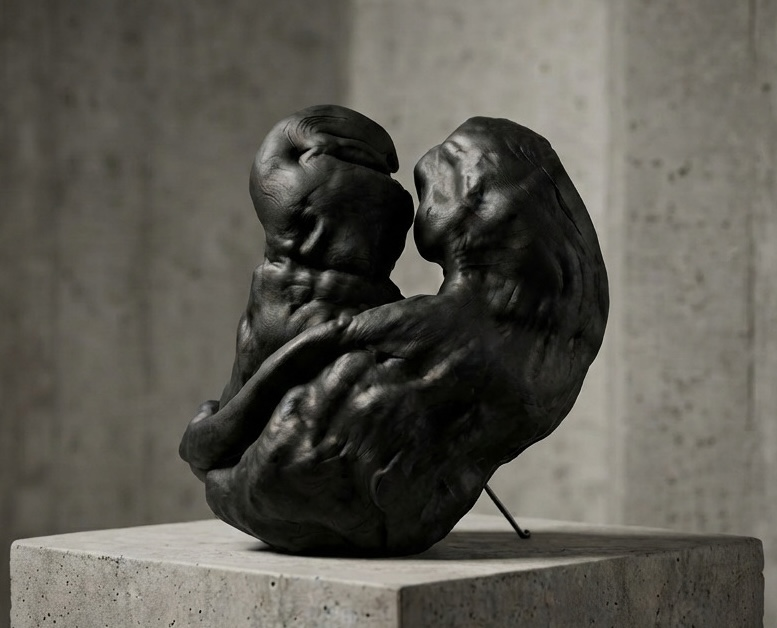
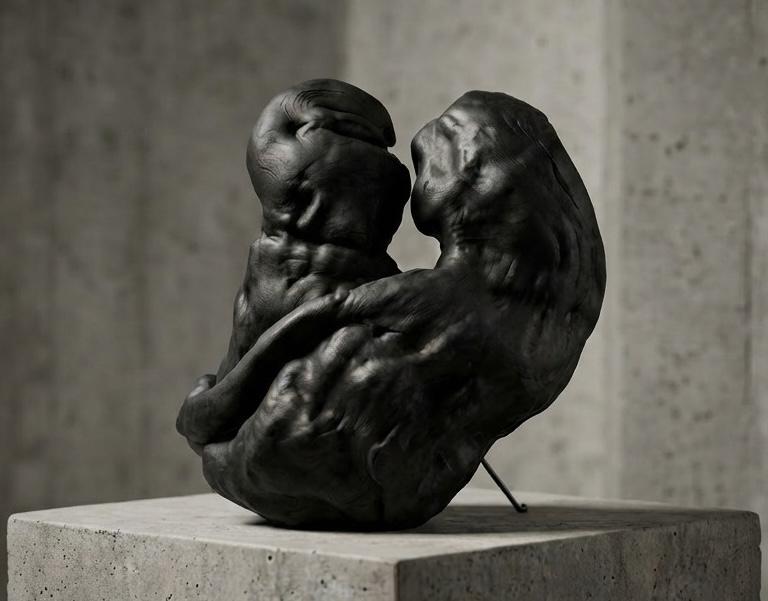
Curators: works grid 4:3 format with new sequence, works catalog status to ПРОДАНА, fix home title duplication

diff --git a/en/curators/index.html b/en/curators/index.html
@@ -69,7 +69,7 @@
 }
   </script>
   <link rel="icon" href="../../images/favicon.svg" type="image/svg+xml">
-  <link rel="stylesheet" href="../../css/style.css?v=500">
+  <link rel="stylesheet" href="../../css/style.css?v=600">
 </head>
 <body>
     <header class="site-header">
@@ -124,38 +124,53 @@
       </div>
     </div>
 
-        <!-- WORKS (5 pieces leading to English pages) -->
+        <!-- WORKS: 1.Face to Face, 2.The Wolf, 3.Confession, 4.Resentment, 5.Foundation (4:3) -->
     <section class="container" style="margin-bottom: 80px;">
       <h2 class="section-title" style="margin-bottom: 30px;">WORKS</h2>
       <div class="curator-works-5-grid">
         <div>
-          <a href="../../en/works/foundation/">
-            <picture><source srcset="../../images/curators/curator-work-01.webp" type="image/webp"><img src="../../images/curators/curator-work-01.jpg" alt="Foundation" loading="lazy" decoding="async"></picture>
-            <p class="caption">Foundation, 2025</p>
-          </a>
-        </div>
-        <div>
           <a href="../../en/works/face-to-face/">
-            <picture><source srcset="../../images/curators/curator-work-02.webp" type="image/webp"><img src="../../images/curators/curator-work-02.jpg" alt="Face to Face" loading="lazy" decoding="async"></picture>
+            <picture>
+              <source srcset="../../../images/works/work-exhibit-02.webp" type="image/webp">
+              <img src="../../../images/works/work-exhibit-02.jpg" alt="Face to Face" loading="lazy" decoding="async">
+            </picture>
             <p class="caption">Face to Face, 2026</p>
           </a>
         </div>
         <div>
+          <a href="../../en/works/the-wolf/">
+            <picture>
+              <source srcset="../../../images/works/work-exhibit-05.webp" type="image/webp">
+              <img src="../../../images/works/work-exhibit-05.jpg" alt="The Wolf" loading="lazy" decoding="async">
+            </picture>
+            <p class="caption">The Wolf, 2026</p>
+          </a>
+        </div>
+        <div>
           <a href="../../en/works/confession/">
-            <picture><source srcset="../../images/curators/curator-work-03.webp" type="image/webp"><img src="../../images/curators/curator-work-03.jpg" alt="Confession" loading="lazy" decoding="async"></picture>
+            <picture>
+              <source srcset="../../../images/works/work-exhibit-03.webp" type="image/webp">
+              <img src="../../../images/works/work-exhibit-03.jpg" alt="Confession" loading="lazy" decoding="async">
+            </picture>
             <p class="caption">Confession, 2026</p>
           </a>
         </div>
         <div>
           <a href="../../en/works/resentment/">
-            <picture><source srcset="../../images/curators/curator-work-04.webp" type="image/webp"><img src="../../images/curators/curator-work-04.jpg" alt="Resentment" loading="lazy" decoding="async"></picture>
+            <picture>
+              <source srcset="../../../images/works/work-exhibit-04.webp" type="image/webp">
+              <img src="../../../images/works/work-exhibit-04.jpg" alt="Resentment" loading="lazy" decoding="async">
+            </picture>
             <p class="caption">Resentment, 2026</p>
           </a>
         </div>
         <div>
-          <a href="../../en/works/the-wolf/">
-            <picture><source srcset="../../images/works/work-exhibit-05.webp" type="image/webp"><img src="../../images/works/work-exhibit-05.jpg" alt="The Wolf" loading="lazy" decoding="async" width="1000" height="1000"></picture>
-            <p class="caption">The Wolf, 2026</p>
+          <a href="../../en/works/foundation/">
+            <picture>
+              <source srcset="../../../images/works/work-exhibit-01.webp" type="image/webp">
+              <img src="../../../images/works/work-exhibit-01.jpg" alt="Foundation" loading="lazy" decoding="async">
+            </picture>
+            <p class="caption">Foundation, 2025</p>
           </a>
         </div>
       </div>

diff --git a/curators/index.html b/curators/index.html
@@ -69,7 +69,7 @@
 }
   </script>
   <link rel="icon" href="../images/favicon.svg" type="image/svg+xml">
-  <link rel="stylesheet" href="../css/style.css?v=500">
+  <link rel="stylesheet" href="../css/style.css?v=600">
 </head>
 <body>
     <header class="site-header">
@@ -124,38 +124,53 @@
       </div>
     </div>
 
-        <!-- РАБОТЫ (5 работ) -->
+        <!-- РАБОТЫ: 1.Перед лицом, 2.Волк, 3.Исповедь, 4.Обида, 5.Основание (4:3) -->
     <section class="container" style="margin-bottom: 80px;">
       <h2 class="section-title" style="margin-bottom: 30px;">РАБОТЫ</h2>
       <div class="curator-works-5-grid">
         <div>
-          <a href="../works/osnovanie/">
-            <picture><source srcset="../images/curators/curator-work-01.webp" type="image/webp"><img src="../images/curators/curator-work-01.jpg" alt="Основание" loading="lazy" decoding="async"></picture>
-            <p class="caption">Основание, 2025</p>
-          </a>
-        </div>
-        <div>
           <a href="../works/pered-licom/">
-            <picture><source srcset="../images/curators/curator-work-02.webp" type="image/webp"><img src="../images/curators/curator-work-02.jpg" alt="Перед лицом" loading="lazy" decoding="async"></picture>
+            <picture>
+              <source srcset="../images/works/work-exhibit-02.webp" type="image/webp">
+              <img src="../images/works/work-exhibit-02.jpg" alt="Перед лицом" loading="lazy" decoding="async">
+            </picture>
             <p class="caption">Перед лицом, 2026</p>
           </a>
         </div>
         <div>
+          <a href="../works/volk/">
+            <picture>
+              <source srcset="../images/works/work-exhibit-05.webp" type="image/webp">
+              <img src="../images/works/work-exhibit-05.jpg" alt="Волк" loading="lazy" decoding="async">
+            </picture>
+            <p class="caption">Волк, 2026</p>
+          </a>
+        </div>
+        <div>
           <a href="../works/ispoved/">
-            <picture><source srcset="../images/curators/curator-work-03.webp" type="image/webp"><img src="../images/curators/curator-work-03.jpg" alt="Исповедь" loading="lazy" decoding="async"></picture>
+            <picture>
+              <source srcset="../images/works/work-exhibit-03.webp" type="image/webp">
+              <img src="../images/works/work-exhibit-03.jpg" alt="Исповедь" loading="lazy" decoding="async">
+            </picture>
             <p class="caption">Исповедь, 2026</p>
           </a>
         </div>
         <div>
           <a href="../works/obida/">
-            <picture><source srcset="../images/curators/curator-work-04.webp" type="image/webp"><img src="../images/curators/curator-work-04.jpg" alt="Обида" loading="lazy" decoding="async"></picture>
+            <picture>
+              <source srcset="../images/works/work-exhibit-04.webp" type="image/webp">
+              <img src="../images/works/work-exhibit-04.jpg" alt="Обида" loading="lazy" decoding="async">
+            </picture>
             <p class="caption">Обида, 2026</p>
           </a>
         </div>
         <div>
-          <a href="../works/volk/">
-            <picture><source srcset="../images/works/work-exhibit-05.webp" type="image/webp"><img src="../images/works/work-exhibit-05.jpg" alt="Волк" loading="lazy" decoding="async" width="1000" height="1000"></picture>
-            <p class="caption">Волк, 2026</p>
+          <a href="../works/osnovanie/">
+            <picture>
+              <source srcset="../images/works/work-exhibit-01.webp" type="image/webp">
+              <img src="../images/works/work-exhibit-01.jpg" alt="Основание" loading="lazy" decoding="async">
+            </picture>
+            <p class="caption">Основание, 2025</p>
           </a>
         </div>
       </div>

diff --git a/works/index.html b/works/index.html
@@ -50,7 +50,7 @@
 }
   </script>
   <link rel="icon" href="../images/favicon.svg" type="image/svg+xml">
-  <link rel="stylesheet" href="../css/style.css?v=500">
+  <link rel="stylesheet" href="../css/style.css?v=600">
 </head>
 <body>
     <header class="site-header">
@@ -118,7 +118,7 @@
           </div>
           <div style="margin-top: 12px; font-size: 13px; line-height: 1.6;">
             <div><span style="color: var(--color-muted);">стоимость:</span> <strong style="color: var(--color-primary); font-weight: 500;">780 BYN</strong></div>
-            <div style="margin-top: 2px;"><strong style="color: var(--color-primary); font-weight: 500; letter-spacing: 0.05em;">ПРОДАН</strong></div>
+            <div style="margin-top: 2px;"><strong style="color: var(--color-primary); font-weight: 500; letter-spacing: 0.05em;">ПРОДАНА</strong></div>
           </div>
         </div>
 
@@ -131,7 +131,7 @@
           </div>
           <div style="margin-top: 12px; font-size: 13px; line-height: 1.6;">
             <div><span style="color: var(--color-muted);">стоимость:</span> <strong style="color: var(--color-primary); font-weight: 500;">1700 BYN</strong></div>
-            <div style="margin-top: 2px;"><strong style="color: var(--color-primary); font-weight: 500; letter-spacing: 0.05em;">ПРОДАН</strong></div>
+            <div style="margin-top: 2px;"><strong style="color: var(--color-primary); font-weight: 500; letter-spacing: 0.05em;">ПРОДАНА</strong></div>
           </div>
         </div>
 
@@ -159,7 +159,7 @@
           </div>
           <div style="margin-top: 12px; font-size: 13px; line-height: 1.6;">
             <div><span style="color: var(--color-muted);">стоимость:</span> <strong style="color: var(--color-primary); font-weight: 500;">430 BYN</strong></div>
-            <div style="margin-top: 2px;"><strong style="color: var(--color-primary); font-weight: 500; letter-spacing: 0.05em;">ПРОДАН</strong></div>
+            <div style="margin-top: 2px;"><strong style="color: var(--color-primary); font-weight: 500; letter-spacing: 0.05em;">ПРОДАНА</strong></div>
           </div>
         </div>
 
@@ -172,7 +172,7 @@
           </div>
           <div style="margin-top: 12px; font-size: 13px; line-height: 1.6;">
             <div><span style="color: var(--color-muted);">стоимость:</span> <strong style="color: var(--color-primary); font-weight: 500;">1300 BYN</strong></div>
-            <div style="margin-top: 2px;"><strong style="color: var(--color-primary); font-weight: 500; letter-spacing: 0.05em;">ПРОДАН</strong></div>
+            <div style="margin-top: 2px;"><strong style="color: var(--color-primary); font-weight: 500; letter-spacing: 0.05em;">ПРОДАНА</strong></div>
           </div>
         </div>
 
@@ -185,7 +185,7 @@
           </div>
           <div style="margin-top: 12px; font-size: 13px; line-height: 1.6;">
             <div><span style="color: var(--color-muted);">стоимость:</span> <strong style="color: var(--color-primary); font-weight: 500;">620 BYN</strong></div>
-            <div style="margin-top: 2px;"><strong style="color: var(--color-primary); font-weight: 500; letter-spacing: 0.05em;">ПРОДАН</strong></div>
+            <div style="margin-top: 2px;"><strong style="color: var(--color-primary); font-weight: 500; letter-spacing: 0.05em;">ПРОДАНА</strong></div>
           </div>
         </div>
       </div>

diff --git a/index.html b/index.html
@@ -49,7 +49,7 @@
 }
   </script>
   <link rel="icon" href="./images/favicon.svg" type="image/svg+xml">
-  <link rel="stylesheet" href="./css/style.css?v=500">
+  <link rel="stylesheet" href="./css/style.css?v=600">
 </head>
 <body>
     <header class="site-header">
@@ -124,7 +124,7 @@
       <div class="grid-2-col" style="margin-bottom: 30px;">
         <div>
           <p class="event-date">Октябрь 2026</p>
-          <h3 class="event-name" style="margin-bottom: 8px;">9-я выставка 9-я выставка «Трын*Трава. Современный русский стиль»</h3>
+          <h3 class="event-name" style="margin-bottom: 8px;">9-я выставка «Трын*Трава. Современный русский стиль»</h3>
           <p class="lead-text">Три работы вошли в основную экспозицию выставки</p>
         </div>
         <div>

diff --git a/css/style.css b/css/style.css
@@ -1518,20 +1518,27 @@ img, video {
   line-height: 1.7;
 }
 
-/* 5 работ у кураторов на десктопе */
+/* 5 работ у кураторов: единый формат 4:3 */
 .curator-works-5-grid {
   display: grid;
   grid-template-columns: repeat(5, 1fr);
   gap: 20px;
 }
+.curator-works-5-grid picture,
 .curator-works-5-grid img {
   width: 100%;
-  aspect-ratio: 3 / 4;
+  aspect-ratio: 4 / 3 !important;
   object-fit: cover;
+  display: block;
+  transition: transform 0.4s ease;
+}
+.curator-works-5-grid a:hover img {
+  transform: scale(1.02);
 }
 @media (max-width: 900px) {
   .curator-works-5-grid {
     grid-template-columns: repeat(2, 1fr) !important;
+    gap: 18px 16px !important;
   }
 }
 @media (max-width: 600px) {

diff --git a/privacy/index.html b/privacy/index.html
@@ -24,7 +24,7 @@
   <meta name="twitter:description" content="Политика в отношении обработки персональных данных и файлов cookie ремесленника Атроша В. В. (УНП КА0278799).">
   <meta name="twitter:image" content="https://bycraft.by/images/hero/hero-valentin.jpg">
   <link rel="icon" href="../images/favicon.svg" type="image/svg+xml">
-  <link rel="stylesheet" href="../css/style.css?v=500">
+  <link rel="stylesheet" href="../css/style.css?v=600">
 </head>
 <body>
   <header class="site-header">

diff --git a/en/privacy/index.html b/en/privacy/index.html
@@ -24,7 +24,7 @@
   <meta name="twitter:description" content="Personal data processing and cookie policy for BYCRAFT by Valentin Atrosh.">
   <meta name="twitter:image" content="https://bycraft.by/images/hero/hero-valentin.jpg">
   <link rel="icon" href="../../images/favicon.svg" type="image/svg+xml">
-  <link rel="stylesheet" href="../../css/style.css?v=500">
+  <link rel="stylesheet" href="../../css/style.css?v=600">
 </head>
 <body>
   <header class="site-header">

diff --git a/en/works/work-252/index.html b/en/works/work-252/index.html
@@ -19,7 +19,7 @@
   <meta property="og:image:height" content="630">
   <meta name="twitter:card" content="summary_large_image">
   <link rel="icon" href="../../../images/favicon.svg" type="image/svg+xml">
-  <link rel="stylesheet" href="../../../css/style.css?v=500">
+  <link rel="stylesheet" href="../../../css/style.css?v=600">
 </head>
 <body>
   <header class="site-header">

diff --git a/works/work-252/index.html b/works/work-252/index.html
@@ -19,7 +19,7 @@
   <meta property="og:image:height" content="630">
   <meta name="twitter:card" content="summary_large_image">
   <link rel="icon" href="../../images/favicon.svg" type="image/svg+xml">
-  <link rel="stylesheet" href="../../css/style.css?v=500">
+  <link rel="stylesheet" href="../../css/style.css?v=600">
 </head>
 <body>
   <header class="site-header">

diff --git a/works/exhibition-monolith/index.html b/works/exhibition-monolith/index.html
@@ -10,7 +10,7 @@
   <meta property="og:type" content="website">
   <meta property="og:url" content="https://bycraft.by">
   <link rel="icon" href="../../images/favicon.svg" type="image/svg+xml">
-  <link rel="stylesheet" href="../../css/style.css?v=500">
+  <link rel="stylesheet" href="../../css/style.css?v=600">
 </head>
 <body>
   <header class="site-header">

diff --git a/404.html b/404.html
@@ -10,7 +10,7 @@
   <meta property="og:type" content="website">
   <meta property="og:url" content="https://bycraft.by">
   <link rel="icon" href="./images/favicon.svg" type="image/svg+xml">
-  <link rel="stylesheet" href="./css/style.css?v=500">
+  <link rel="stylesheet" href="./css/style.css?v=600">
 </head>
 <body>
   <header class="site-header">

diff --git a/en/works/confession/index.html b/en/works/confession/index.html
@@ -75,7 +75,7 @@
 }
   </script>
   <link rel="icon" href="../../../images/favicon.svg" type="image/svg+xml">
-  <link rel="stylesheet" href="../../../css/style.css?v=500">
+  <link rel="stylesheet" href="../../../css/style.css?v=600">
 </head>
 <body>
     <header class="site-header">
